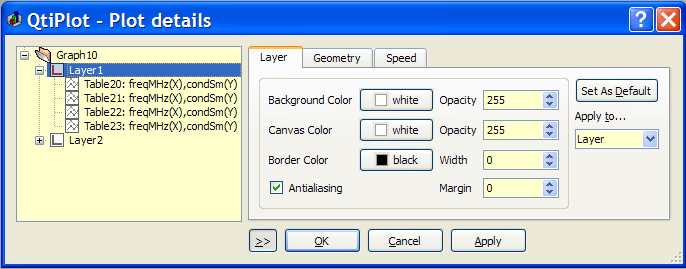
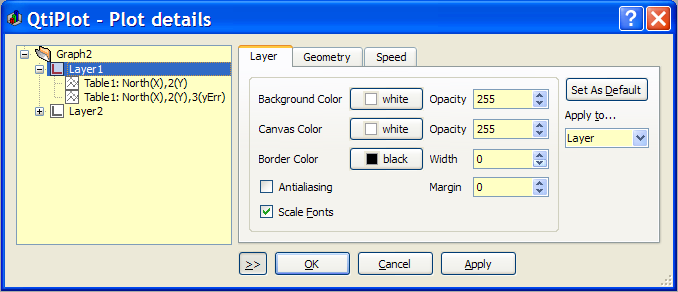
Improvements to the plot dialog.
git-svn-id: http://svn.berlios.de/svnroot/repos/qtiplot/trunk@1690 5a6a7de5-fb12-0410-b871-c33778c25c60

diff --git a/qtiplot/src/plot2D/dialogs/PlotDialog.cpp b/qtiplot/src/plot2D/dialogs/PlotDialog.cpp
@@ -124,6 +124,7 @@ PlotDialog::PlotDialog(bool showExtended, QWidget* parent, Qt::WFlags fl )
 	initMiscPage();
 	initLabelsPage();
 	initFunctionPage();
+	initPlotGeometryPage();
 	clearTabWidget();
 
     QHBoxLayout* hb2 = new QHBoxLayout();
@@ -412,7 +413,10 @@ void PlotDialog::initLayerPage()
     boxMargin->setSingleStep(5);
     boxBkgLayout->addWidget( boxMargin, 3, 3);
 
-	boxBkgLayout->setRowStretch(4, 1);
+	layerScaleFonts = new QCheckBox(tr("Scale &Fonts"));
+	boxBkgLayout->addWidget(layerScaleFonts, 4, 0);
+
+	boxBkgLayout->setRowStretch(5, 1);
 
     QVBoxLayout *vl = new QVBoxLayout();
 
@@ -446,6 +450,85 @@ void PlotDialog::initLayerPage()
 	connect(boxBackgroundColor, SIGNAL(colorChanged()), this, SLOT(applyLayerFormat()));
 	connect(boxCanvasColor, SIGNAL(colorChanged()), this, SLOT(applyLayerFormat()));
 	connect(boxBorderWidth, SIGNAL(valueChanged (int)), this, SLOT(applyLayerFormat()));
+}
+
+
+void PlotDialog::initPlotGeometryPage()
+{
+	ApplicationWindow *app = (ApplicationWindow *)parent();
+	QLocale locale = QLocale();
+	if (app)
+		locale = app->locale();
+
+	plotUnitBox = new QComboBox();
+	plotUnitBox->insertItem(tr("inch"));
+	plotUnitBox->insertItem(tr("mm"));
+	plotUnitBox->insertItem(tr("cm"));
+	plotUnitBox->insertItem(tr("point"));
+	plotUnitBox->insertItem(tr("pixel"));
+	plotUnitBox->setCurrentIndex(app->d_layer_geometry_unit);
+
+	QHBoxLayout *bl1 = new QHBoxLayout();
+	bl1->addWidget(new QLabel(tr( "Unit" )));
+	bl1->addWidget(plotUnitBox);
+
+	QGroupBox *gb1 = new QGroupBox(tr("Origin"));
+	boxPlotX = new DoubleSpinBox();
+	boxPlotX->setLocale(locale);
+	boxPlotX->setDecimals(6);
+
+	boxPlotY = new DoubleSpinBox();
+	boxPlotY->setLocale(locale);
+	boxPlotY->setDecimals(6);
+
+	QGridLayout *gl1 = new QGridLayout(gb1);
+	gl1->addWidget(new QLabel( tr("X= ")), 0, 0);
+	gl1->addWidget(boxPlotX, 0, 1);
+	gl1->addWidget(new QLabel(tr("Y= ")), 1, 0);
+	gl1->addWidget(boxPlotY, 1, 1);
+	gl1->setRowStretch(2, 1);
+
+	QGroupBox *gb2 = new QGroupBox(tr("Size"));
+	boxPlotWidth = new DoubleSpinBox();
+	boxPlotWidth->setMinimum(0);
+	boxPlotWidth->setLocale(locale);
+	boxPlotWidth->setDecimals(6);
+
+	boxPlotHeight = new DoubleSpinBox();
+	boxPlotHeight->setMinimum(0);
+	boxPlotHeight->setLocale(locale);
+	boxPlotHeight->setDecimals(6);
+
+	QGridLayout *gl2 = new QGridLayout(gb2);
+	gl2->addWidget(new QLabel( tr("width= ")), 0, 0);
+	gl2->addWidget(boxPlotWidth, 0, 1);
+
+	gl2->addWidget(new QLabel(tr("height= ")), 2, 0);
+	gl2->addWidget(boxPlotHeight, 2, 1);
+
+	keepPlotRatioBox = new QCheckBox(tr("Keep aspect ratio"));
+	keepPlotRatioBox->setChecked(app->d_keep_aspect_ration);
+	gl2->addWidget(keepRatioBox, 3, 1);
+
+	gl2->setRowStretch(4, 1);
+
+	QHBoxLayout *bl2 = new QHBoxLayout();
+	bl2->addWidget(gb1);
+	bl2->addWidget(gb2);
+
+	plotGeometryPage = new QWidget();
+	QVBoxLayout * vl = new QVBoxLayout(plotGeometryPage);
+	vl->addLayout(bl1);
+	vl->addLayout(bl2);
+
+	boxResizeLayers = new QCheckBox(tr("Do not &resize layers when window size changes"));
+	vl->addWidget(boxResizeLayers);
+
+	privateTabWidget->addTab(plotGeometryPage, tr("Dimensions"));
+
+	connect(boxPlotWidth, SIGNAL(valueChanged (double)), this, SLOT(adjustPlotHeight(double)));
+	connect(boxPlotHeight, SIGNAL(valueChanged (double)), this, SLOT(adjustPlotWidth(double)));
+	connect(plotUnitBox, SIGNAL(activated(int)), this, SLOT(displayPlotCoordinates(int)));
 }
 
 void PlotDialog::initLayerGeometryPage()
@@ -1550,6 +1633,8 @@ void PlotDialog::setMultiLayer(MultiLayer *ml)
         return;
 
     d_ml = ml;
+	displayPlotCoordinates(ml->applicationWindow()->d_layer_geometry_unit);
+	boxResizeLayers->setChecked(!ml->scaleLayersOnResize());
 
 	boxLinkXAxes->setChecked(d_ml->hasLinkedXLayerAxes());
 
@@ -1779,10 +1864,11 @@ void PlotDialog::updateTabWindow(QTreeWidgetItem *currentItem, QTreeWidgetItem *
         setActiveLayer((LayerItem *)currentItem);
     } else {
         clearTabWidget();
+		privateTabWidget->addTab(plotGeometryPage, tr("Dimensions"));
 		privateTabWidget->addTab(printPage, tr("Print"));
         privateTabWidget->addTab(fontsPage, tr("Fonts"));
 		privateTabWidget->addTab(miscPage, tr("Miscellaneous"));
-        privateTabWidget->showPage(printPage);
+		privateTabWidget->showPage(plotGeometryPage);
 
         curvePlotTypeBox->hide();
         btnWorksheet->hide();
@@ -1899,6 +1985,7 @@ void PlotDialog::clearTabWidget()
 	privateTabWidget->removeTab(privateTabWidget->indexOf(printPage));
 	privateTabWidget->removeTab(privateTabWidget->indexOf(miscPage));
 	privateTabWidget->removeTab(privateTabWidget->indexOf(functionPage));
+	privateTabWidget->removeTab(privateTabWidget->indexOf(plotGeometryPage));
 }
 
 void PlotDialog::quit()
@@ -2013,6 +2100,7 @@ void PlotDialog::setActiveLayer(LayerItem *item)
 	boxCanvasColor->setColor(c);
 
 	boxAntialiasing->setChecked(g->antialiasing());
+	layerScaleFonts->setChecked(g->autoscaleFonts());
 
 	boxLayerWidth->blockSignals(true);
 	boxLayerHeight->blockSignals(true);
@@ -2517,11 +2605,17 @@ void PlotDialog::applyFormatToLayer(Graph *g)
 	g->setCanvasBackground(c);
 
 	g->setAntialiasing(boxAntialiasing->isChecked());
+	g->setAutoscaleFonts(layerScaleFonts->isChecked());
 }
 
 bool PlotDialog::acceptParams()
 {
-    if (privateTabWidget->currentWidget() == fontsPage){
+	if (privateTabWidget->currentWidget() == plotGeometryPage){
+		FrameWidget::setRect(d_ml, boxPlotX->value(), boxPlotY->value(), boxPlotWidth->value(),
+		boxPlotHeight->value(), (FrameWidget::Unit)plotUnitBox->currentIndex());
+		d_ml->setScaleLayersOnResize(!boxResizeLayers->isChecked());
+		return true;
+	} else if (privateTabWidget->currentWidget() == fontsPage){
 		d_ml->setFonts(titleFont, axesFont, numbersFont, legendFont);
 		return true;
     } else if (privateTabWidget->currentWidget() == printPage){
@@ -3137,12 +3231,32 @@ void PlotDialog::adjustLayerWidth(double height)
 		aspect_ratio = boxLayerWidth->value()/height;
 }
 
+void PlotDialog::adjustPlotHeight(double width)
+{
+	if (keepPlotRatioBox->isChecked()){
+		boxPlotHeight->blockSignals(true);
+		boxPlotHeight->setValue(width/plot_aspect_ratio);
+		boxPlotHeight->blockSignals(false);
+	} else
+		plot_aspect_ratio = width/boxPlotHeight->value();
+}
+
+void PlotDialog::adjustPlotWidth(double height)
+{
+	if (keepPlotRatioBox->isChecked()){
+		boxPlotWidth->blockSignals(true);
+		boxPlotWidth->setValue(height*plot_aspect_ratio);
+		boxPlotWidth->blockSignals(false);
+	} else
+		plot_aspect_ratio = boxPlotWidth->value()/height;
+}
+
 void PlotDialog::closeEvent(QCloseEvent* e)
 {
 	ApplicationWindow *app = qobject_cast<ApplicationWindow *>(this->parent());
 	if (app){
 		app->d_extended_plot_dialog = btnMore->isChecked ();
-		app->d_keep_aspect_ration = keepRatioBox->isChecked();
+		app->d_keep_aspect_ration = keepRatioBox->isChecked() || keepPlotRatioBox->isChecked();
 	}
 
 	e->accept();
@@ -3198,6 +3312,38 @@ int PlotDialog::labelsAlignment()
 			break;
 	}
 	return align;
+}
+
+void PlotDialog::displayPlotCoordinates(int unit)
+{
+	if (unit == FrameWidget::Pixel || unit == FrameWidget::Point){
+		boxPlotX->setFormat('f', 0);
+		boxPlotY->setFormat('f', 0);
+		boxPlotWidth->setFormat('f', 0);
+		boxPlotHeight->setFormat('f', 0);
+
+		boxPlotX->setSingleStep(1.0);
+		boxPlotY->setSingleStep(1.0);
+		boxPlotWidth->setSingleStep(1.0);
+		boxPlotHeight->setSingleStep(1.0);
+	} else {
+		boxPlotX->setFormat('g', 6);
+		boxPlotY->setFormat('g', 6);
+		boxPlotWidth->setFormat('g', 6);
+		boxPlotHeight->setFormat('g', 6);
+
+		boxPlotX->setSingleStep(0.1);
+		boxPlotY->setSingleStep(0.1);
+		boxPlotWidth->setSingleStep(0.1);
+		boxPlotHeight->setSingleStep(0.1);
+	}
+
+	plot_aspect_ratio = (double)d_ml->width()/(double)d_ml->height();
+
+	boxPlotX->setValue(FrameWidget::xIn(d_ml, (FrameWidget::Unit)unit) + FrameWidget::xIn(d_ml, (FrameWidget::Unit)unit));
+	boxPlotY->setValue(FrameWidget::yIn(d_ml, (FrameWidget::Unit)unit) + FrameWidget::yIn(d_ml, (FrameWidget::Unit)unit));
+	boxPlotWidth->setValue(FrameWidget::widthIn(d_ml, (FrameWidget::Unit)unit));
+	boxPlotHeight->setValue(FrameWidget::heightIn(d_ml, (FrameWidget::Unit)unit));
 }
 
 void PlotDialog::displayCoordinates(int unit, Graph *g)

diff --git a/qtiplot/src/plot2D/dialogs/PlotDialog.h b/qtiplot/src/plot2D/dialogs/PlotDialog.h
@@ -120,6 +120,10 @@ private slots:
 	void adjustLayerHeight(double width);
 	void adjustLayerWidth(double height);
 	void displayCoordinates(int unit, Graph *g = 0);
+	//plot window geometry
+	void displayPlotCoordinates(int unit);
+	void adjustPlotWidth(double height);
+	void adjustPlotHeight(double width);
 
 protected slots:
     void setActiveLayer(LayerItem *item);
@@ -170,6 +174,7 @@ private:
 	void initContourLinesPage();
 	void initLayerPage();
 	void initLayerGeometryPage();
+	void initPlotGeometryPage();
 	void initLayerSpeedPage();
 	void initFontsPage();
 	void initMiscPage();
@@ -184,7 +189,7 @@ private:
     void updateContourLevelsDisplay(Spectrogram *sp);
     QRect layerCanvasRect(QWidget *widget, double x, double y, double w, double h, FrameWidget::Unit unit);
 
-	double aspect_ratio;
+	double aspect_ratio, plot_aspect_ratio;
 
     QFont titleFont, legendFont, axesFont, numbersFont;
 
@@ -297,13 +302,17 @@ private:
 	DoubleSpinBox *boxDouglasPeukerTolerance;
 	QGroupBox *speedModeBox;
 
-	QWidget *miscPage;
+	QWidget *miscPage, *plotGeometryPage;
 	QCheckBox *boxLinkXAxes;
 	QComboBox *boxLinkAllXAxes;
 
 	FunctionDialog *functionEdit;
 	QSpinBox *boxCurveOpacity;
 	QSlider *curveOpacitySlider;
+
+	DoubleSpinBox *boxPlotX, *boxPlotY, *boxPlotWidth, *boxPlotHeight;
+	QComboBox *plotUnitBox;
+	QCheckBox *boxResizeLayers, *keepPlotRatioBox, *layerScaleFonts;
 };
 
 /*****************************************************************************
